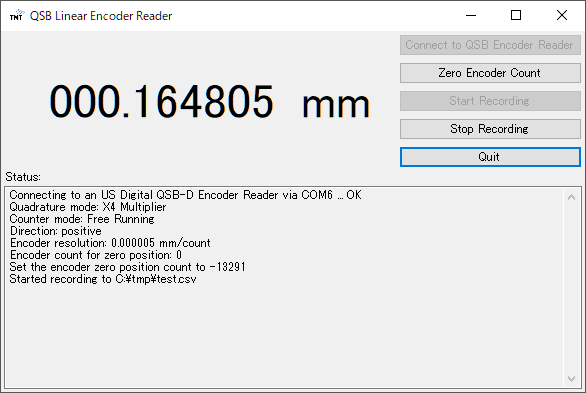
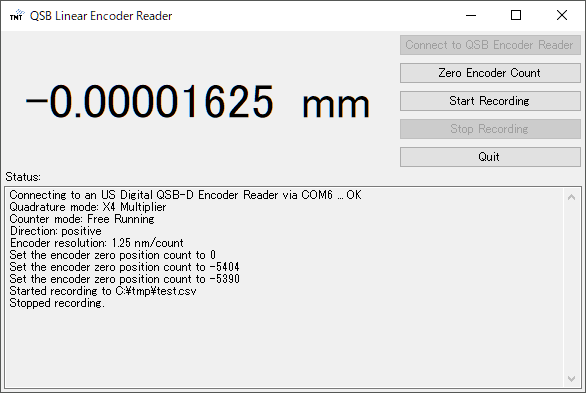
Added the usage.

diff --git a/README.md b/README.md
@@ -20,6 +20,22 @@ If you want to launc it again, open the Windows menu and click `TMT Internationa
 
 ## Usage
 
+### Prerequisite
+
+Connect your [QSB-D](https://www.usdigital.com/products/accessories/interfaces/usb/qsb/) to an USB port of your computer.
+Please make sure that the baud rate setting of QSB-D is the same as factory default (230400 bits/sec).
+If you have ever changed the baud rate from the factory default, revert the setting by using [US Digital Device Explorer](https://www.usdigital.com/support/resources/downloads/software/qsb-software/).
+
+### Application usage
+
+Once you launch the application, click `Connect to QSB Encoder Reader`. The application starts to continuously read the position from the encoder.
+
+Press `Zero Encoder Count` button to set the current positoin as zero.
+
+Press `Start Recording` button to save the encoder readings in a CSV file. It will ask you which CSV file to save. You can stop recording by pressing `Stop recording` button.
+
+![](images/init_screen.png)
+
 TODO: fill out here
 
 ## License
@@ -110,4 +126,4 @@ Now your new released version must appear in https://github.com/tmtsoftware/m1cs
 ## TODO
 
  * Allow the user to select COM port.
-
+ * Remove hard-coded configuration (quadrature mode and encoder resolution) and allow the user to set them.
